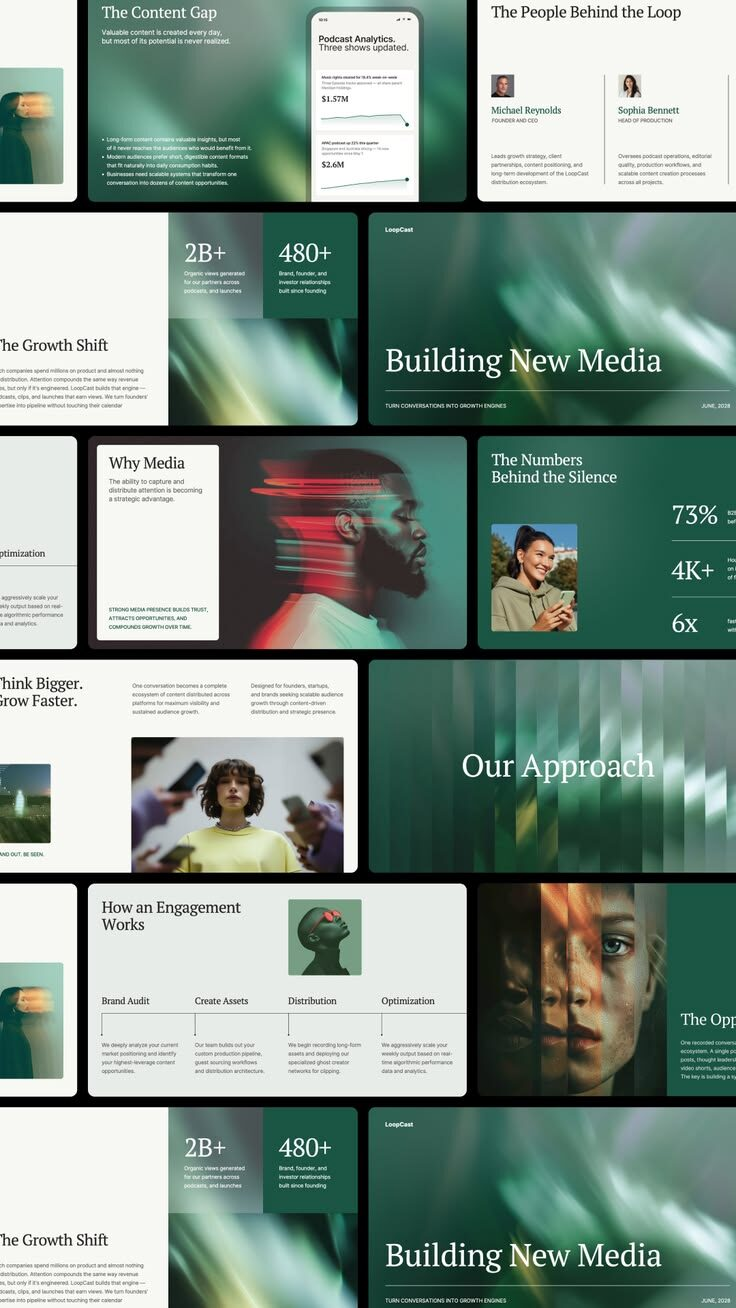
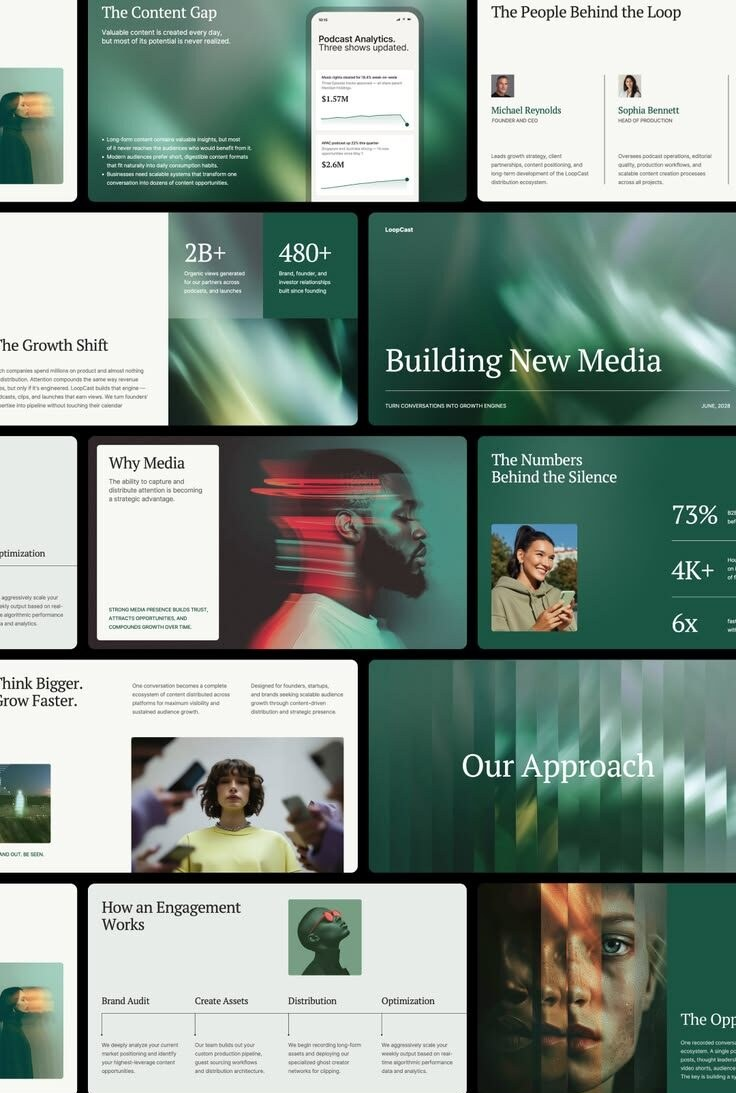
Workdeck, Gunni feedback: Demo and Solution Video labels, drop events film and Stand 12A tile, cut campaigns to three, drop repeated social tile and band, remove Brand Identity, drop garbled landing page

diff --git a/app/workdeck/page.tsx b/app/workdeck/page.tsx
@@ -26,13 +26,13 @@ const FILMS: Film[] = [
   {
     id: 'UcZfSIegPNw',
     brand: 'Airtable',
-    format: 'Launch film',
+    format: 'Demo Video',
     note: 'A whole platform generation introduced through real work, not slides. This is how a big release should land.',
   },
   {
     id: '92QjC95cbvM',
     brand: 'Pendo',
-    format: 'Platform film',
+    format: 'Solution Video',
     note: 'Three separate products shown as one system. The hardest brief in B2B video, done cleanly.',
   },
   {
@@ -50,27 +50,24 @@ const SPREADS = [
   { id: 'events', label: 'Events' },
   { id: 'campaigns', label: 'Campaigns' },
   { id: 'social', label: 'Social' },
-  { id: 'brand', label: 'Brand' },
   { id: 'environments', label: 'Environments' },
   { id: 'web', label: 'Web' },
   { id: 'process', label: 'Process' },
 ];
 
 const CONTENTS = [
-  { n: '01', title: 'Video Creation', line: 'Brand films, launch films, product films, demos and social cutdowns.' },
+  { n: '01', title: 'Video Creation', line: 'Brand films, product films, demo videos, solution videos and social cutdowns.' },
   { n: '02', title: 'Live and Virtual Events', line: 'Conferences, roadshows, lunch and learns, filmed and cut properly.' },
   { n: '03', title: 'Campaign Systems', line: 'One idea, built out across every placement your buyers actually see.' },
   { n: '04', title: 'Social and Content', line: 'Carousels, statics and post systems for LinkedIn-first B2B.' },
-  { n: '05', title: 'Brand Identity', line: 'Marks, palettes, type systems and the rules that keep them intact.' },
-  { n: '06', title: 'Brand Environments', line: 'Stands, billboards, screens and the places a brand meets people.' },
-  { n: '07', title: 'Web and Landing Pages', line: 'Pages built to convert, not just to look finished.' },
+  { n: '05', title: 'Brand Environments', line: 'Stands, billboards, screens and the places a brand meets people.' },
+  { n: '06', title: 'Web and Landing Pages', line: 'Pages built to convert, not just to look finished.' },
 ];
 
-const CAMPAIGN_IMGS = ['p01.jpg', 'p09.jpg', 'p07.jpg', 'p08.jpg', 'p03.jpg', 'p05.jpg'];
-const SOCIAL_IMGS = ['p18.jpg', 'p13.jpg', 'p19.jpg'];
-const BRAND_IMGS = ['p11.jpg', 'p16.jpg', 'p10.jpg', 'p12.jpg', 'p14.jpg'];
+const CAMPAIGN_IMGS = ['p01.jpg', 'p07.jpg', 'p08.jpg'];
+const SOCIAL_IMGS = ['p18.jpg', 'p13.jpg'];
 const ENV_IMGS = ['v05.jpg', 'v04.jpg', 'v08.jpg', 'v03.jpg', 'v06.jpg', 'v10.jpg', 'v07.jpg', 'v09.jpg'];
-const WEB_IMGS = ['p02.jpg', 'p04.jpg', 'p15.jpg', 'p17.jpg'];
+const WEB_IMGS = ['p02.jpg', 'p04.jpg', 'p17.jpg'];
 
 const EVENT_IMGS = [
   { src: '/img/live-events/conference.jpg', label: 'Conferences' },
@@ -387,7 +384,7 @@ export default function WorkDeckPage() {
               compact
               n="00"
               title="Contents"
-              tagline="Seven things we make."
+              tagline="Six things we make."
               copy="Every section below is one capability. Click anything to see it full size. The films play in the page."
             />
           </div>
@@ -417,7 +414,7 @@ export default function WorkDeckPage() {
           n="01"
           title="Video Creation"
           tagline="The format that moves B2B."
-          copy="Brand films, launch films, product films, demos and the social cutdowns that come out of them. Four films below, one of each kind, so you can hear the difference between a video that explains and a video that sells."
+          copy="Product films, demo videos, solution videos, brand films and the social cutdowns that come out of them. Four films below, one of each kind, so you can hear the difference between a video that explains and a video that sells."
         />
 
         <div className="grid gap-10 lg:grid-cols-2 lg:gap-12">
@@ -437,23 +434,7 @@ export default function WorkDeckPage() {
           copy="Conferences, roadshows and lunch and learns. We plan them, run them, film them, and cut the footage into something you can use for the next twelve months."
         />
 
-        <div className="overflow-hidden rounded-3xl bg-[#1C2340] ring-1 ring-gray-100">
-          <video
-            className="aspect-video w-full object-cover"
-            autoPlay
-            muted
-            loop
-            playsInline
-            poster="/workdeck/img/event-poster.jpg"
-          >
-            <source src="/workdeck/video/event-film.mp4" type="video/mp4" />
-          </video>
-        </div>
-        <p className="mt-5 text-sm font-bold uppercase tracking-widest text-gray-400">
-          Event film · the cut that lives on the homepage
-        </p>
-
-        <div className="mt-10 grid gap-4 sm:gap-6 md:grid-cols-3">
+        <div className="grid gap-4 sm:gap-6 md:grid-cols-3">
           {EVENT_IMGS.map((e) => (
             <div key={e.src} className="group overflow-hidden rounded-2xl ring-1 ring-gray-100 sm:rounded-3xl">
               <div className="relative aspect-[4/3] overflow-hidden">
@@ -468,10 +449,6 @@ export default function WorkDeckPage() {
               </div>
             </div>
           ))}
-        </div>
-
-        <div className="mt-6">
-          <Masonry items={['v08.jpg']} onOpen={open} cols="sm:columns-1" />
         </div>
       </Spread>
 
@@ -495,42 +472,30 @@ export default function WorkDeckPage() {
           tagline="Built for the feed your buyers actually read."
           copy="LinkedIn first. Carousels, statics and post systems designed so the tenth post still looks like it came from the same company as the first."
         />
-        <Masonry items={SOCIAL_IMGS} onOpen={open} />
-      </Spread>
-
-      {/* ---------------- BRAND ---------------- */}
-      <Spread id="brand" dark>
-        <SpreadHead
-          dark
-          n="05"
-          title="Brand Identity"
-          tagline="The mark is the easy part. The system is the work."
-          copy="Logos, palettes, type scales and the rules that stop a brand falling apart the moment somebody outside the design team opens a file."
-        />
-        <Masonry items={BRAND_IMGS} onOpen={open} dark />
+        <Masonry items={SOCIAL_IMGS} onOpen={open} cols="sm:columns-2" />
       </Spread>
 
       {/* ---------------- ENVIRONMENTS ---------------- */}
-      <Spread id="environments">
+      <Spread id="environments" dark>
         <SpreadHead
-          n="06"
+          dark
+          n="05"
           title="Brand Environments"
           tagline="Stands, billboards, screens and stages."
           copy="The moment a software brand has to exist at full size, in a room, next to twelve competitors doing the same thing."
         />
-        <Masonry items={ENV_IMGS} onOpen={open} cols="sm:columns-2" />
+        <Masonry items={ENV_IMGS} onOpen={open} dark cols="sm:columns-2" />
       </Spread>
 
       {/* ---------------- WEB ---------------- */}
-      <Spread id="web" dark>
+      <Spread id="web">
         <SpreadHead
-          dark
-          n="07"
+          n="06"
           title="Web and Landing Pages"
           tagline="Built to convert, not just to look finished."
           copy="Landing pages, campaign pages and full sites. Fast, responsive, tracked, and written so the first screen already answers the question the visitor came with."
         />
-        <Masonry items={WEB_IMGS} onOpen={open} dark cols="sm:columns-2" />
+        <Masonry items={WEB_IMGS} onOpen={open} cols="sm:columns-2" />
       </Spread>
 
       {/* ---------------- PROCESS + CTA ---------------- */}
@@ -539,7 +504,7 @@ export default function WorkDeckPage() {
           <div className="lg:sticky lg:top-28 lg:self-start">
             <SpreadHead
               compact
-              n="08"
+              n="07"
               title="How We Work"
               tagline="Four steps. No surprises."
               copy="Most of what goes wrong in agency work goes wrong in the first two weeks. This is how we stop that."
